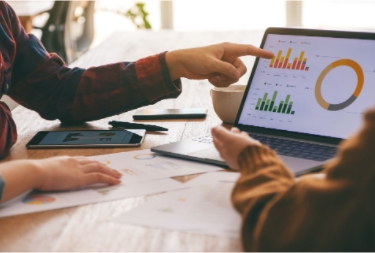
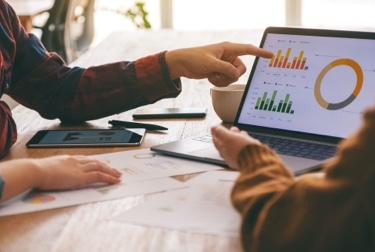
Update images - no white border

diff --git a/docs/src/.vuepress/components/Internal/CounterGallery.vue b/docs/src/.vuepress/components/Internal/CounterGallery.vue
@@ -162,13 +162,26 @@ export default {
 
     &--list
       ul
-        list-style inside
+        list-style none
 
       li
         margin-bottom 20px
+        padding-left 20px
+        position relative
 
         &:last-child
           margin-bottom 0
+
+        &::before
+          content ''
+          width 4px
+          height 4px
+          border-radius 50%
+          background $darkGrey
+          display inline-block
+          position absolute
+          left 3px
+          top 10px
 
   &__image
 
@@ -233,6 +246,13 @@ export default {
       
       &--list
         font-size 20px
+        line-height 28px
+
+        li
+          padding-left 30px
+
+          &::before
+            top 12px
 
     &:nth-of-type(2n)
       .counter-section__content

diff --git a/docs/src/about.md b/docs/src/about.md
@@ -27,17 +27,17 @@ shapedInfo:
   - title: Emotionally
     content: From famous companies to favorite brands
     image:
-      src: "/images/about/notebook.jpg"
+      src: "/images/about/notebook.png"
       alt: ""
   - title: Operationally
     content: From functional experts to experience masters
     image:
-      src: "/images/about/clients.jpg"
+      src: "/images/about/clients.png"
       alt: ""
   - title: Commercially
     content: From target customers to brand evangelists
     image:
-      src: "/images/about/shopping.jpg"
+      src: "/images/about/shopping.png"
       alt: ""
 visionSection:
   id: vision-section
